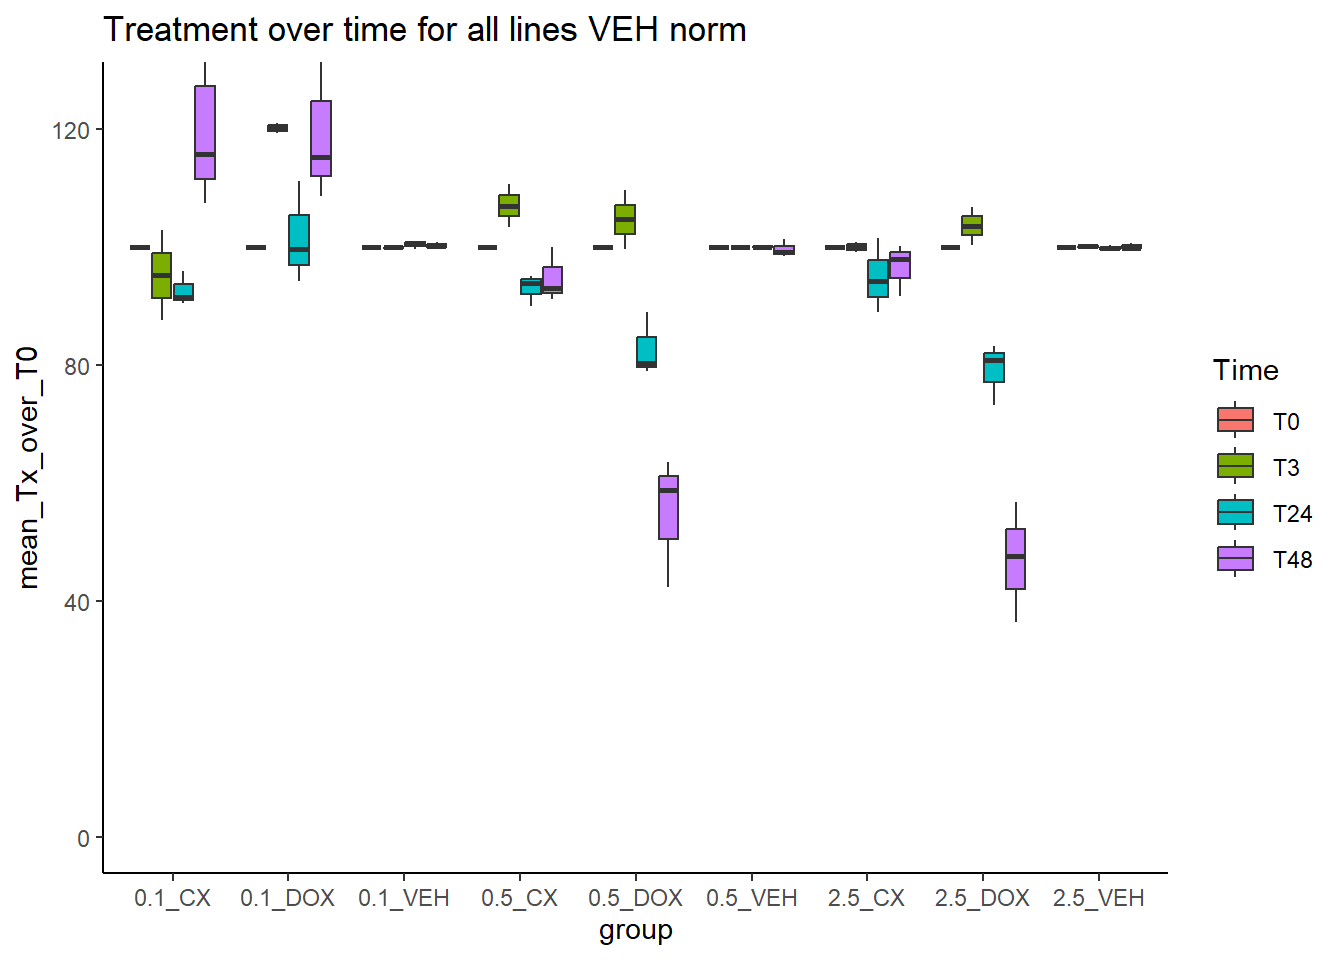
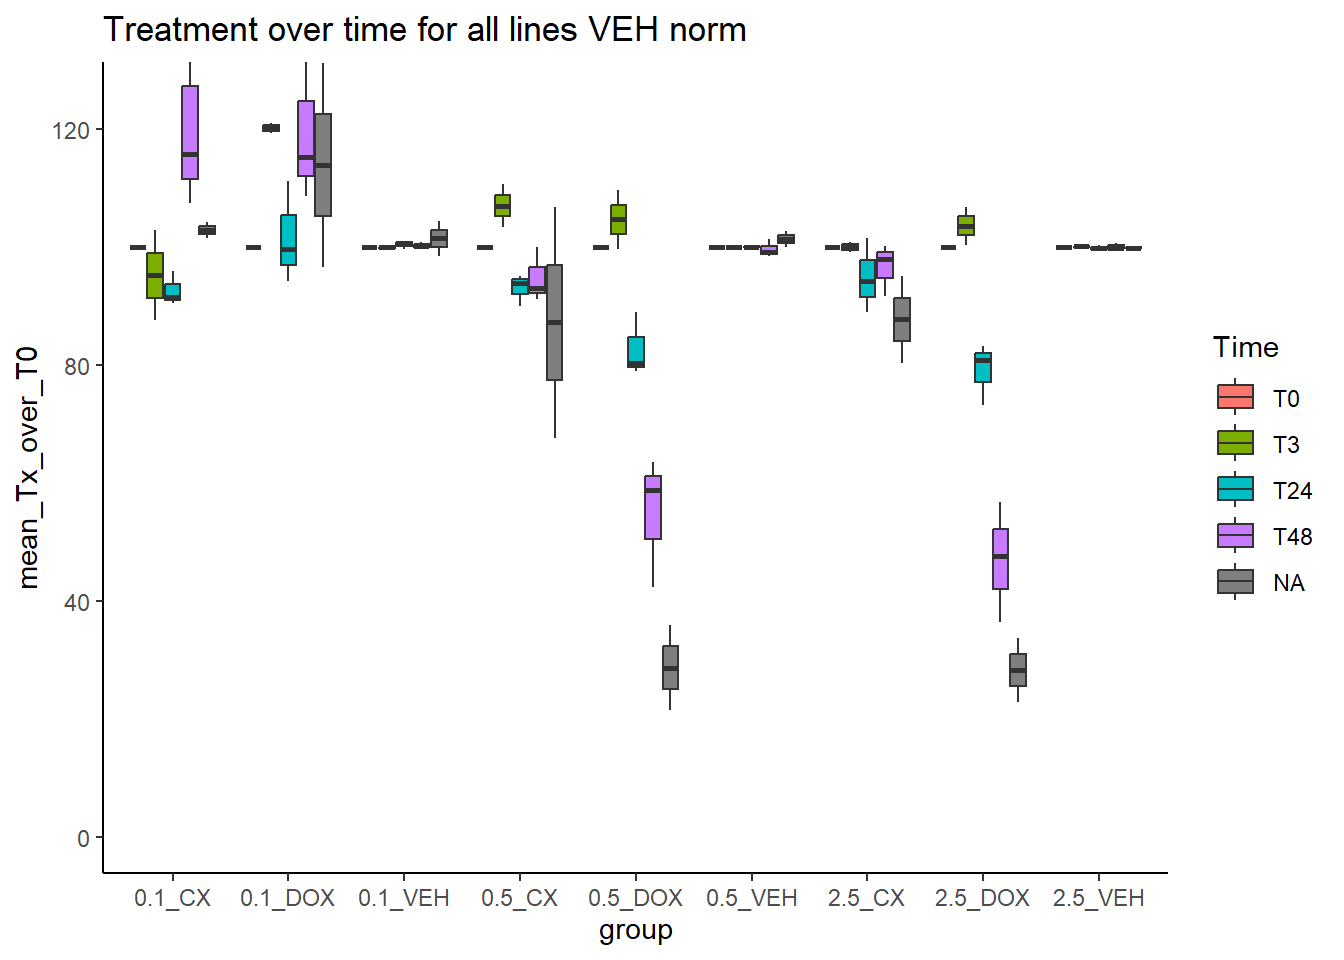
Build site.

diff --git a/docs/CX-revision.html b/docs/CX-revision.html
@@ -11,7 +11,7 @@
 
 <meta name="author" content="Renee Matthews" />
 
-<meta name="date" content="2025-10-31" />
+<meta name="date" content="2025-11-03" />
 
 <title>CX-revision</title>
 
@@ -353,7 +353,7 @@ div.tocify {
 
 <h1 class="title toc-ignore">CX-revision</h1>
 <h4 class="author">Renee Matthews</h4>
-<h4 class="date">2025-10-31</h4>
+<h4 class="date">2025-11-03</h4>
 
 </div>
 
@@ -382,7 +382,7 @@ class="glyphicon glyphicon-ok text-success" aria-hidden="true"></span>
 <div class="tab-content">
 <div id="summary" class="tab-pane fade in active">
 <p>
-<strong>Last updated:</strong> 2025-10-31
+<strong>Last updated:</strong> 2025-11-03
 </p>
 <p>
 <strong>Checks:</strong> <span
@@ -513,15 +513,15 @@ project makes it easier to run your code on other machines.</p>
 <div class="panel panel-default">
 <div class="panel-heading">
 <p class="panel-title">
-<a data-toggle="collapse" data-parent="#workflowr-checks" href="#strongRepositoryversionstrongahrefhttpsgithubcomreneeisnowhereCXrevisiontree45f92fd4fe4ffb72a5102e5ba7b315f98cb0d825targetblank45f92fda">
+<a data-toggle="collapse" data-parent="#workflowr-checks" href="#strongRepositoryversionstrongahrefhttpsgithubcomreneeisnowhereCXrevisiontreed642f3ebf68021867dde4bc67033f949b06649catargetblankd642f3ea">
 <span class="glyphicon glyphicon-ok text-success"
 aria-hidden="true"></span> <strong>Repository version:</strong>
-<a href="https://github.com/reneeisnowhere/CX_revision/tree/45f92fd4fe4ffb72a5102e5ba7b315f98cb0d825" target="_blank">45f92fd</a>
+<a href="https://github.com/reneeisnowhere/CX_revision/tree/d642f3ebf68021867dde4bc67033f949b06649ca" target="_blank">d642f3e</a>
 </a>
 </p>
 </div>
 <div
[2 lines of base64/hex data omitted]
 class="panel-collapse collapse">
 <div class="panel-body">
 <p>
@@ -531,7 +531,7 @@ reproducibility.
 </p>
 <p>
 The results in this page were generated with repository version
-<a href="https://github.com/reneeisnowhere/CX_revision/tree/45f92fd4fe4ffb72a5102e5ba7b315f98cb0d825" target="_blank">45f92fd</a>.
+<a href="https://github.com/reneeisnowhere/CX_revision/tree/d642f3ebf68021867dde4bc67033f949b06649ca" target="_blank">d642f3e</a>.
 See the <em>Past versions</em> tab to see a history of the changes made
 to the R Markdown and HTML files.
 </p>
@@ -549,11 +549,6 @@ Ignored files:
     Ignored:    .RData
     Ignored:    .Rhistory
     Ignored:    .Rproj.user/
-
-Untracked files:
-    Untracked:  data/Presto_blue_results/CM_cell_viability_platemap.xlsx
-    Untracked:  data/Presto_blue_results/Plate_map.xlsx
-    Untracked:  data/Presto_blue_results/iPSC_cell_viability_platemap.xlsx
 
 Unstaged changes:
     Modified:   CX_revison.Rproj
@@ -601,6 +596,40 @@ Message
 </tr>
 </thead>
 <tbody>
+<tr>
+<td>
+Rmd
+</td>
+<td>
+<a href="https://github.com/reneeisnowhere/CX_revision/blob/d642f3ebf68021867dde4bc67033f949b06649ca/analysis/CX-revision.Rmd" target="_blank">d642f3e</a>
+</td>
+<td>
+reneeisnowhere
+</td>
+<td>
+2025-11-03
+</td>
+<td>
+wflow_publish("analysis/CX-revision.Rmd")
+</td>
+</tr>
+<tr>
+<td>
+html
+</td>
+<td>
+<a href="https://rawcdn.githack.com/reneeisnowhere/CX_revision/f31ecb620d0464e943be9254934f463f2ab75ec6/docs/CX-revision.html" target="_blank">f31ecb6</a>
+</td>
+<td>
+reneeisnowhere
+</td>
+<td>
+2025-10-31
+</td>
+<td>
+Build site.
+</td>
+</tr>
 <tr>
 <td>
 Rmd
@@ -1723,8 +1752,8 @@ T24_87_CM_p2_viability &lt;- read_excel(&quot;data/Presto_blue_results/87_iPSC_C
 T48_87_CM_p3_viability &lt;- read_excel(&quot;data/Presto_blue_results/87_CM_p3_T48_251030.xlsx&quot;, 
     skip = 26)
 
-# T96_87_CM_p4_viability &lt;- read_excel(&quot;C:/Users/renee/Documents/Ward Lab/CX-revision/Presto Blue results/87_iPSC_CM_p4_T96_251101.xlsx&quot;, 
-#     skip = 26)
+T96_87_CM_p4_viability &lt;- read_excel(&quot;C:/Users/renee/Documents/Ward Lab/CX-revision/Presto Blue results/87_CM_p4_T96_251101.xlsx&quot;,
+    skip = 26)
 
 CM_combo_87 &lt;- T0_87_CM_p1_viability %&gt;% 
   mutate(Well=&quot;T0_p1&quot;) %&gt;% 
@@ -1740,8 +1769,8 @@ CM_combo_87 &lt;- T0_87_CM_p1_viability %&gt;%
               mutate(Well=&quot;T24_p2&quot;)) %&gt;% 
   bind_rows(T48_87_CM_p3_viability %&gt;%
               mutate(Well=&quot;T48_p3&quot;)) %&gt;%
-  #    bind_rows(T96_87_CM_p4_viability %&gt;% 
-  #             mutate(Well=&quot;T96_p4&quot;)) %&gt;%
+     bind_rows(T96_87_CM_p4_viability %&gt;%
+              mutate(Well=&quot;T96_p4&quot;)) %&gt;%
   dplyr::rename(&quot;Time_Plate&quot;=Well) %&gt;% 
   pivot_longer(., A1:H12, names_to = &quot;Well&quot;, values_to = &quot;reading&quot;) %&gt;% 
   pivot_wider(id_cols=c(&quot;Well&quot;), names_from = &quot;Time_Plate&quot;, values_from = &quot;reading&quot;)</code></pre>
@@ -1766,8 +1795,8 @@ T24_78_CM_p2_viability &lt;- read_excel(&quot;data/Presto_blue_results/78_iPSC_C
 T48_78_CM_p3_viability &lt;- read_excel(&quot;data/Presto_blue_results/78_CM_p3_T48_251030.xlsx&quot;, 
     skip = 26)
 
-# T96_78_CM_p4_viability &lt;- read_excel(&quot;C:/Users/renee/Documents/Ward Lab/CX-revision/Presto Blue results/78_CM_p4_T96_251101.xlsx&quot;, 
-#     skip = 26)
+T96_78_CM_p4_viability &lt;- read_excel(&quot;C:/Users/renee/Documents/Ward Lab/CX-revision/Presto Blue results/78_CM_p4_T96_251101.xlsx&quot;,
+    skip = 26)
 
 
 CM_combo_78 &lt;- T0_78_CM_p1_viability %&gt;% 
@@ -1784,8 +1813,8 @@ CM_combo_78 &lt;- T0_78_CM_p1_viability %&gt;%
               mutate(Well=&quot;T24_p2&quot;)) %&gt;% 
   bind_rows(T48_78_CM_p3_viability %&gt;%
               mutate(Well=&quot;T48_p3&quot;)) %&gt;%
-  #    bind_rows(T96_78_CM_p4_viability %&gt;% 
-  #             mutate(Well=&quot;T96_p4&quot;)) %&gt;%
+     bind_rows(T96_78_CM_p4_viability %&gt;%
+              mutate(Well=&quot;T96_p4&quot;)) %&gt;%
   dplyr::rename(&quot;Time_Plate&quot;=Well) %&gt;% 
   pivot_longer(., A1:H12, names_to = &quot;Well&quot;, values_to = &quot;reading&quot;) %&gt;% 
   pivot_wider(id_cols=c(&quot;Well&quot;), names_from = &quot;Time_Plate&quot;, values_from = &quot;reading&quot;)</code></pre>
@@ -2175,7 +2204,7 @@ norm_Tx_over_T0_78_CM &lt;- with_untx_78_CM %&gt;%
   dplyr::select(Well, tx, conc, Time, plate, norm_to_untx) %&gt;%
   
   # Ensure consistent order of timepoints
-  mutate(Time = factor(Time, levels = c(&quot;T0&quot;,&quot;T3&quot;,&quot;T24&quot;,&quot;T48&quot;))) %&gt;%
+  mutate(Time = factor(Time, levels = c(&quot;T0&quot;,&quot;T3&quot;,&quot;T24&quot;,&quot;T48&quot;,&quot;T96&quot;))) %&gt;%
   
   # Pivot wider so each timepoint is its own column
   pivot_wider(
@@ -2263,7 +2292,7 @@ summ_all &lt;- all_lines %&gt;%
 <h5>All normalized to untx plot</h5>
 <pre class="r"><code>summ_all %&gt;% 
   dplyr::filter(tx %in% c(&quot;CX&quot;,&quot;DOX&quot;)) %&gt;% 
-  mutate(Time=factor(Time, levels=c(&quot;T0&quot;,&quot;T3&quot;,&quot;T24&quot;,&quot;T48&quot;)),
+  mutate(Time=factor(Time, levels=c(&quot;T0&quot;,&quot;T3&quot;,&quot;T24&quot;,&quot;T48&quot;,&quot;T96&quot;)),
          group=paste0(conc,&quot;_&quot;,tx)) %&gt;%
   ggplot(aes(x=group,y=mean_Tx_over_T0))+
   geom_boxplot(aes(fill=Time))+
@@ -2319,6 +2348,8 @@ reneeisnowhere
 </table>
 </div>
 </div>
+<pre class="r"><code># write.csv(summ_all,&quot;data/CM_cell_viability_3-96.csv&quot;)
+# write.csv(all_lines,&quot;data/individual_data_points_CM_cell_viability_3-96.csv&quot;)</code></pre>
 </div>
 </div>
 <div id="normalizing-to-veh-too" class="section level4">
